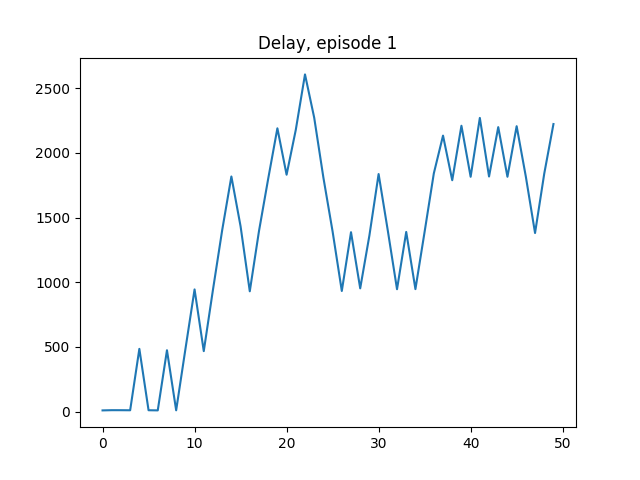
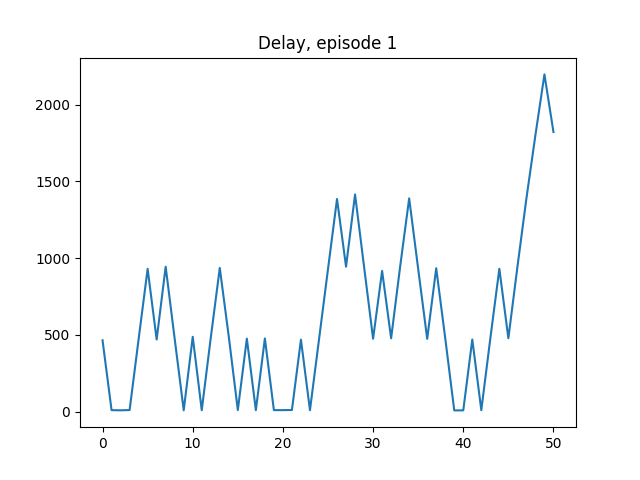
Made many major changes

diff --git a/driver.py b/driver.py
@@ -18,21 +18,15 @@ def main():
         state = sdn_env.reset()
         print("EPISODE", e)
         state = np.reshape(state, [1, state_size])
-        delays = []
-        pdrops = []
-        throughputs = []
+
         for time in range(constants.NUM_SIMULATIONS):
-            # env.render()
+            sdn_env.render()
             action = rl_agent.act(state)
             next_state, reward, done, _ = sdn_env.step(action)
             reward = reward if not done else -10
             next_state = np.reshape(next_state, [1, state_size])
             rl_agent.memorize(state, action, reward, next_state, done)
             state = next_state
-            delay, pdrop, throughput = list(state[0])
-            delays.append(delay)
-            pdrops.append(pdrop)
-            throughputs.append(throughput)
 
             if done:
                 print("episode: {}/{}, score: {}, e: {:.2}"
@@ -42,20 +36,26 @@ def main():
                 rl_agent.replay(batch_size)
 
         plt.figure(1)
-        plt.title("Delay, episode {}".format(e+1))
-        plt.plot(np.array(delays))
-        plt.savefig("graphs/delay_episode{}.png".format(e+1))
+        plt.title("Buffer sizes, episode {}".format(e + 1))
+        plt.plot(np.array(sdn_env.bsizes))
+        plt.savefig("graphs/bsizes_episode{}.png".format(e + 1))
         plt.show()
 
         plt.figure(2)
-        plt.title("Packet drop %, episode {}".format(e+1))
-        plt.plot(np.array(pdrops))
-        plt.savefig("graphs/pdrop_episode{}.png".format(e+1))
+        plt.title("Delay, episode {}".format(e+1))
+        plt.plot(np.array(sdn_env.delays))
+        plt.savefig("graphs/delay_episode{}.png".format(e+1))
         plt.show()
 
         plt.figure(3)
+        plt.title("Packet drop %, episode {}".format(e+1))
+        plt.plot(np.array(sdn_env.pdrops))
+        plt.savefig("graphs/pdrop_episode{}.png".format(e+1))
+        plt.show()
+
+        plt.figure(4)
         plt.title("Throughput, episode {}".format(e+1))
-        plt.plot(np.array(throughputs))
+        plt.plot(np.array(sdn_env.throughputs))
         plt.savefig("graphs/throughput_episode{}.png".format(e+1))
         plt.show()
 

diff --git a/utils/sdnenvironment.py b/utils/sdnenvironment.py
@@ -9,6 +9,9 @@ class SdnEnvironment:
         self.pdrops = []
         self.delays = []
         self.throughputs = []
+        self.bsizes = []
+        self.headers = []
+        self.lengths = []
 
     def step(self, action):
         # if action is 1 then increase buffer size
@@ -31,15 +34,12 @@ class SdnEnvironment:
             self.bsize -= constants.BSIZE_CHANGE
 
         self.bsize = max(self.bsize, 1)
-        print(delay_reward, pdrop_reward, throughput_reward)
-        print("Reward=", self.reward)
-        print("Action=", action)
-        print("Buffer size is now ", self.bsize)
 
         delay, pdrop, throughput = QueueNet2.simulate_network(self.bsize)
         self.delays.append(delay)
         self.pdrops.append(pdrop)
         self.throughputs.append(throughput)
+        self.bsizes.append(self.bsize)
 
         return [delay, pdrop, throughput], self.reward, done, 0
 
@@ -48,4 +48,20 @@ class SdnEnvironment:
         self.delays.append(delay)
         self.pdrops.append(pdrop)
         self.throughputs.append(throughput)
+        self.bsizes.append(self.bsize)
         return [delay, pdrop, throughput]
+
+    def render(self):
+        if len(self.delays) == 1:
+            self.headers = ["Sl No", "Buffer Size", "Delay", "Packet Drop", "Throughput"]
+            self.lengths = [len(x)+5 for x in self.headers]
+            for i in range(len(self.headers)):
+                print(self.headers[i].ljust(self.lengths[i]), end='')
+            print()
+
+        print(str(len(self.delays)).ljust(self.lengths[0]),  end='')
+        print(str(self.bsizes[-1]).ljust(self.lengths[1]), end='')
+        print(str(self.delays[-1]).ljust(self.lengths[2]), end='')
+        print(str(self.pdrops[-1]).ljust(self.lengths[3]), end='')
+        print(str(self.throughputs[-1]).ljust(self.lengths[4]), end='')
+        print()

diff --git a/utils/QueueNet2.py b/utils/QueueNet2.py
@@ -79,7 +79,7 @@ def simulate_network(custom_queue=300):
     delay2 = sum(ps2.waits) / len(ps2.waits)
     delay = delay1 + delay2
     delay = round(delay * 1000, 2)
-    print("Delay=", delay, "ms")
+    # print("Delay=", delay, "ms")
     packets_sent = pg1.packets_sent + pg2.packets_sent + pg3.packets_sent
     # print("PACKETS SENT=", packets_sent)
     packets_received = len(ps1.waits) + len(ps2.waits)
@@ -93,10 +93,10 @@ def simulate_network(custom_queue=300):
 
     # To avoid confusing RL agent with different packet drop value, take average packet drop
     avg_pdrop = round((pdrop+sw_pdrop)/2, 2)
-    print("Packet drop = {} %".format(avg_pdrop))
+    # print("Packet drop = {} %".format(avg_pdrop))
 
     throughput = packets_received / time_slice  # not accurate since we are considering number of packets, not their sizes, try port monitor
-    print("Throughput = {}".format(throughput))
+    # print("Throughput = {}".format(throughput))
 
     return delay, avg_pdrop, throughput
     # print "average system occupancy: {}".format(float(sum(pm.sizes))/len(pm.sizes))
